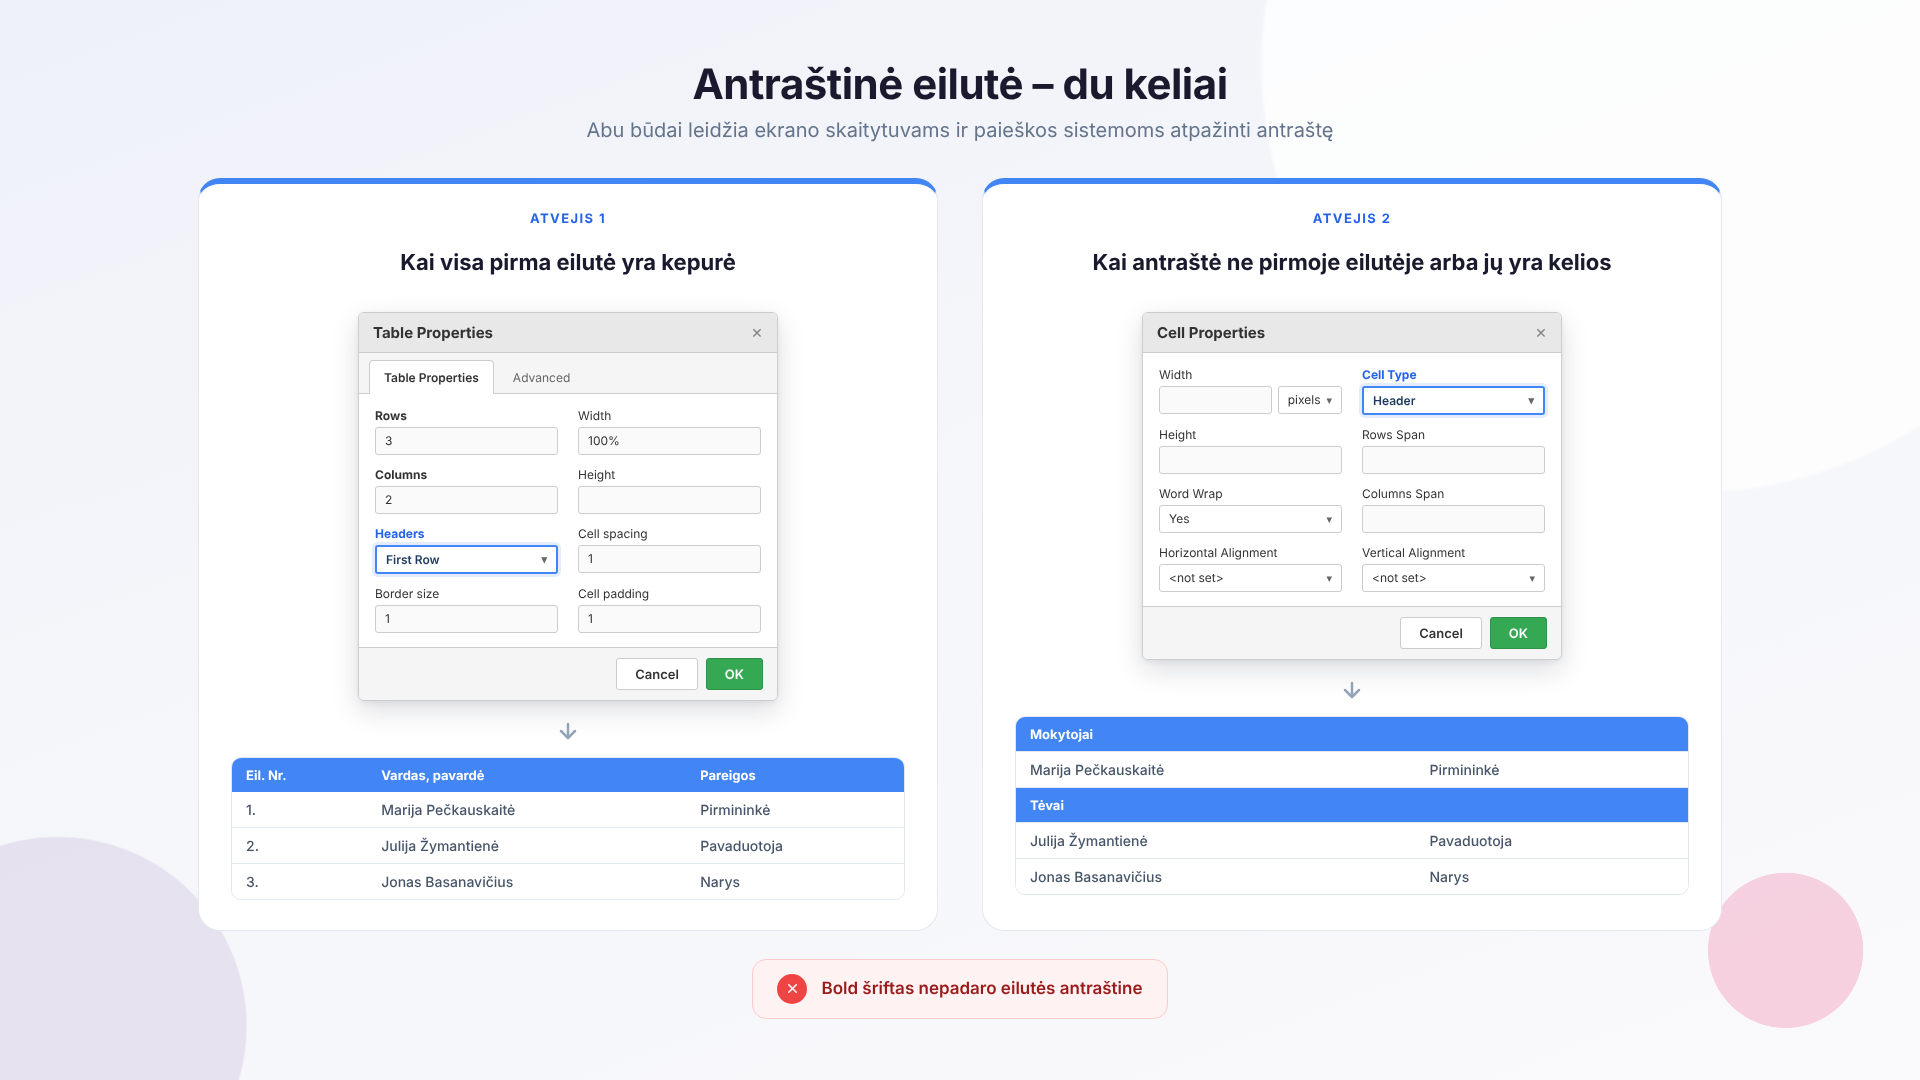
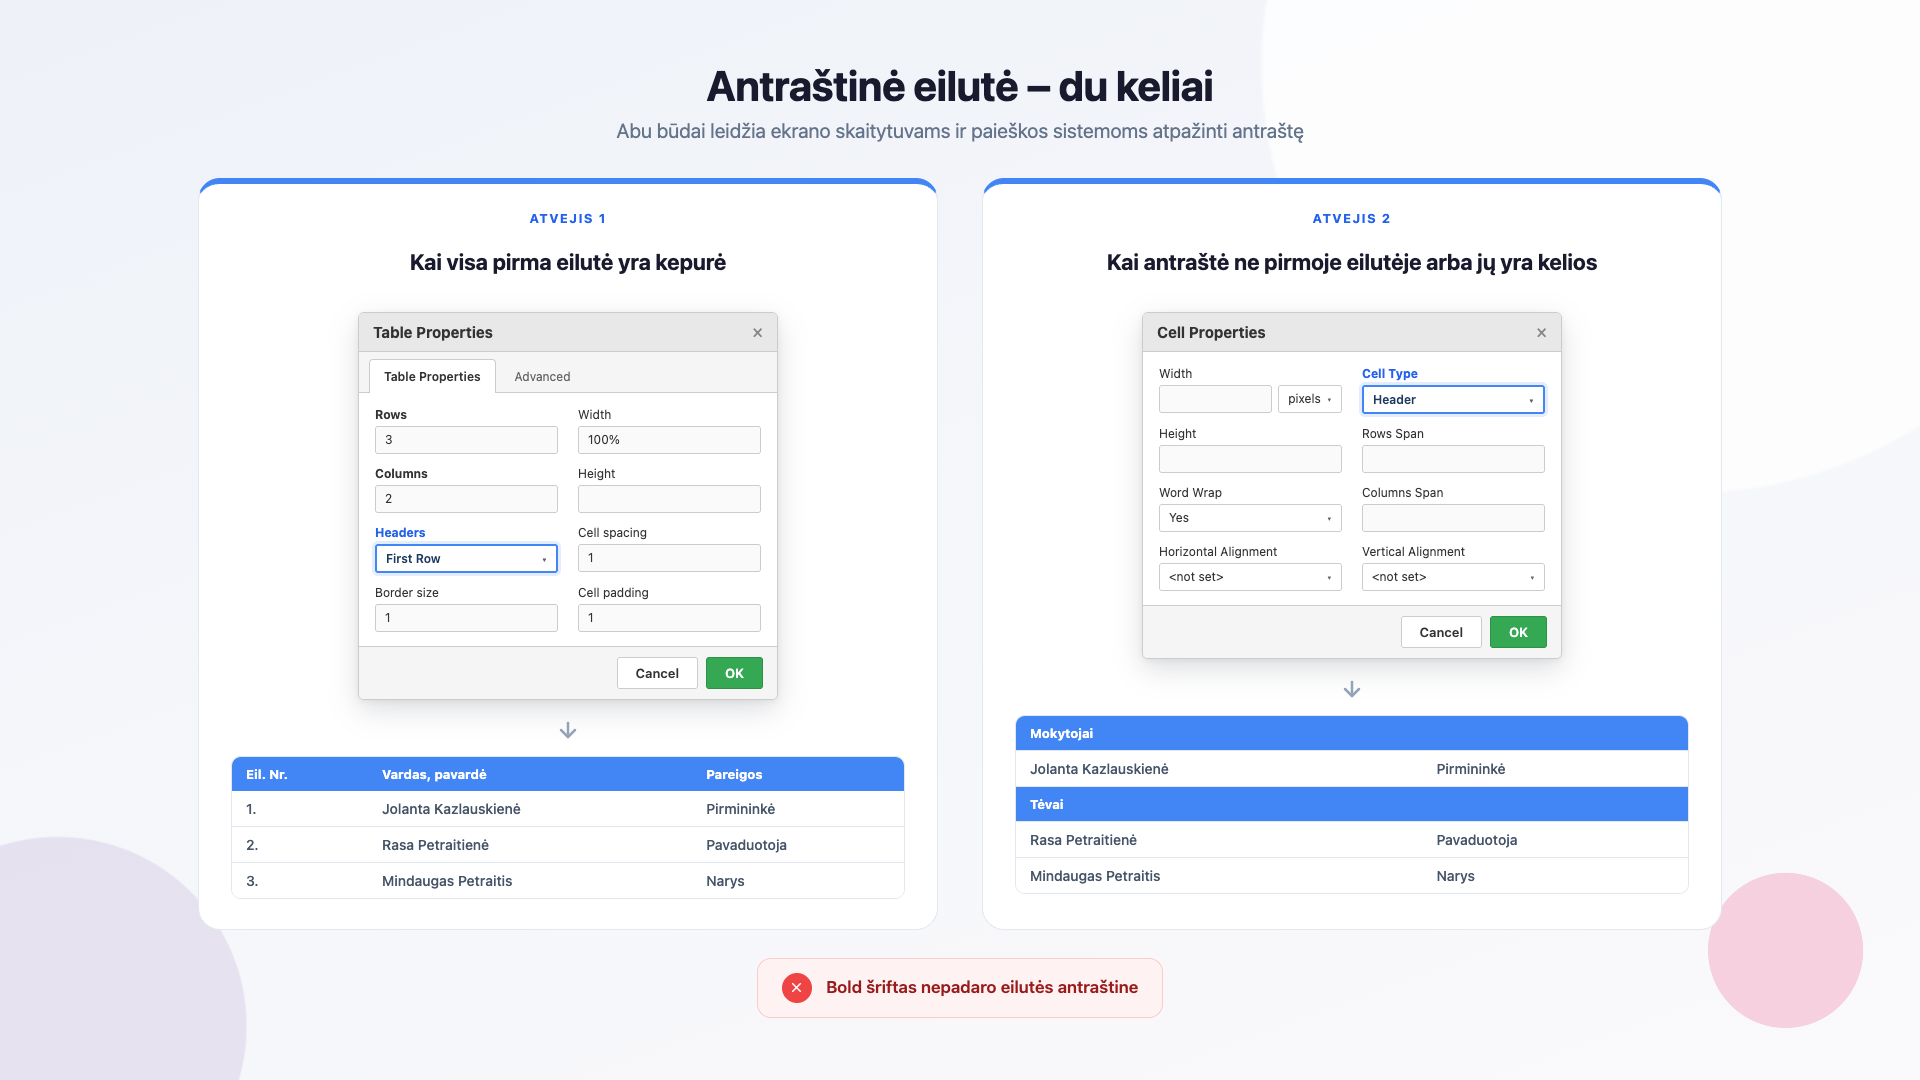
Pavyzdiniai vardai: Google Sheets integracija ir Lentelių kūrimo principai — garsūs mirę lietuviai; PNG perpiešti Mac'e
Turinys (lt.json) ir HTML pataisyti. PNG grąžinti į ankstesnius (taip pat ir „Lentelių redagavimo“):
debesyje Inter šriftas platesnis ir laužo eilutes, todėl PNG piešiami Mac'e:
  node generate.js --png --dark --lang lt --lesson lenteliu-redagavimas-wysiwyg-redaktoriuje,google-sheets-integracija,lenteliu-kurimo-principai

Claude-Session: https://claude.ai/code/session_01AH8p7j7Kzd8xAewVFyPHaZ

diff --git a/lessons/google-sheets-integracija/output/lt/08-duomenu-atsinaujinimas.html b/lessons/google-sheets-integracija/output/lt/08-duomenu-atsinaujinimas.html
@@ -264,12 +264,12 @@
           </div>
           <div class="ss-row">
             <div class="ss-cell">1.</div>
-            <div class="ss-cell">Jolanta Kazlauskienė</div>
+            <div class="ss-cell">Marija Pečkauskaitė</div>
             <div class="ss-cell">Mokytojų atstovė</div>
           </div>
           <div class="ss-row">
             <div class="ss-cell">2.</div>
-            <div class="ss-cell active-cell">Rasa Petrait<span class="cursor"></span></div>
+            <div class="ss-cell active-cell">Julija Žymant<span class="cursor"></span></div>
             <div class="ss-cell">Tėvų atstovė</div>
           </div>
         </div>
@@ -310,12 +310,12 @@
           </div>
           <div class="ss-row">
             <div class="ss-cell">1.</div>
-            <div class="ss-cell">Jolanta Kazlauskienė</div>
+            <div class="ss-cell">Marija Pečkauskaitė</div>
             <div class="ss-cell">Mokytojų atstovė</div>
           </div>
           <div class="ss-row">
             <div class="ss-cell">2.</div>
-            <div class="ss-cell changed-cell">Rasa Petraitienė</div>
+            <div class="ss-cell changed-cell">Julija Žymantienė</div>
             <div class="ss-cell">Tėvų atstovė</div>
           </div>
         </div>

diff --git a/lessons/lenteliu-kurimo-principai/output/lt/04-spalvota-kepure.html b/lessons/lenteliu-kurimo-principai/output/lt/04-spalvota-kepure.html
@@ -194,9 +194,9 @@
               </tr>
             </thead>
             <tbody>
-              <tr><td>1.</td><td>Jolanta Kazlauskienė</td><td>Pirmininkė</td></tr>
-              <tr><td>2.</td><td>Rasa Petraitienė</td><td>Pavaduotoja</td></tr>
-              <tr><td>3.</td><td>Mindaugas Petraitis</td><td>Narys</td></tr>
+              <tr><td>1.</td><td>Marija Pečkauskaitė</td><td>Pirmininkė</td></tr>
+              <tr><td>2.</td><td>Julija Žymantienė</td><td>Pavaduotoja</td></tr>
+              <tr><td>3.</td><td>Jonas Basanavičius</td><td>Narys</td></tr>
             </tbody>
           </table>
         </div>
@@ -218,9 +218,9 @@
               </tr>
             </thead>
             <tbody>
-              <tr><td>1.</td><td>Jolanta Kazlauskienė</td><td>Pirmininkė</td></tr>
-              <tr><td>2.</td><td>Rasa Petraitienė</td><td>Pavaduotoja</td></tr>
-              <tr><td>3.</td><td>Mindaugas Petraitis</td><td>Narys</td></tr>
+              <tr><td>1.</td><td>Marija Pečkauskaitė</td><td>Pirmininkė</td></tr>
+              <tr><td>2.</td><td>Julija Žymantienė</td><td>Pavaduotoja</td></tr>
+              <tr><td>3.</td><td>Jonas Basanavičius</td><td>Narys</td></tr>
             </tbody>
           </table>
         </div>

diff --git a/lessons/lenteliu-kurimo-principai/output/lt/03-paprastumas.html b/lessons/lenteliu-kurimo-principai/output/lt/03-paprastumas.html
@@ -201,9 +201,9 @@
               </tr>
             </thead>
             <tbody>
-              <tr><td>Jolanta Kazlauskienė</td><td>Pirmininkė</td></tr>
-              <tr><td>Rasa Petraitienė</td><td>Pavaduotoja</td></tr>
-              <tr><td>Mindaugas Petraitis</td><td>Narys</td></tr>
+              <tr><td>Marija Pečkauskaitė</td><td>Pirmininkė</td></tr>
+              <tr><td>Julija Žymantienė</td><td>Pavaduotoja</td></tr>
+              <tr><td>Jonas Basanavičius</td><td>Narys</td></tr>
             </tbody>
           </table>
         </div>
@@ -237,16 +237,16 @@
             <tbody>
               <tr>
                 <td class="group-cell" rowspan="2">Mokytojai</td>
-                <td>Jolanta Kazlauskienė</td>
+                <td>Marija Pečkauskaitė</td>
                 <td>Pirmininkė</td>
               </tr>
               <tr>
-                <td>Rasa Petraitienė</td>
+                <td>Julija Žymantienė</td>
                 <td>Pavaduotoja</td>
               </tr>
               <tr>
                 <td class="group-cell">Tėvai</td>
-                <td>Mindaugas Petraitis</td>
+                <td>Jonas Basanavičius</td>
                 <td>Narys</td>
               </tr>
             </tbody>

diff --git a/lessons/lenteliu-kurimo-principai/output/lt/01-lygiavimas-kaire.html b/lessons/lenteliu-kurimo-principai/output/lt/01-lygiavimas-kaire.html
@@ -181,9 +181,9 @@
               </tr>
             </thead>
             <tbody>
-              <tr><td>Jolanta Kazlauskienė</td><td>Mokytojų atstovė</td></tr>
-              <tr><td>Rasa Petraitienė</td><td>Tėvų atstovė</td></tr>
-              <tr><td>Mindaugas Petraitis</td><td>Tėvų atstovas</td></tr>
+              <tr><td>Marija Pečkauskaitė</td><td>Mokytojų atstovė</td></tr>
+              <tr><td>Julija Žymantienė</td><td>Tėvų atstovė</td></tr>
+              <tr><td>Jonas Basanavičius</td><td>Tėvų atstovas</td></tr>
             </tbody>
           </table>
         </div>
@@ -218,9 +218,9 @@
               </tr>
             </thead>
             <tbody>
-              <tr><td>Jolanta Kazlauskienė</td><td>Mokytojų atstovė</td></tr>
-              <tr><td>Rasa Petraitienė</td><td>Tėvų atstovė</td></tr>
-              <tr><td>Mindaugas Petraitis</td><td>Tėvų atstovas</td></tr>
+              <tr><td>Marija Pečkauskaitė</td><td>Mokytojų atstovė</td></tr>
+              <tr><td>Julija Žymantienė</td><td>Tėvų atstovė</td></tr>
+              <tr><td>Jonas Basanavičius</td><td>Tėvų atstovas</td></tr>
             </tbody>
           </table>
         </div>

diff --git a/lessons/lenteliu-kurimo-principai/output/lt/02-nestilizuokite-lenteliu.html b/lessons/lenteliu-kurimo-principai/output/lt/02-nestilizuokite-lenteliu.html
@@ -251,9 +251,9 @@
               </tr>
             </thead>
             <tbody>
-              <tr><td>Jolanta Kazlauskienė</td><td>Mokytojų atstovė</td></tr>
-              <tr><td>Rasa Petraitienė</td><td>Tėvų atstovė</td></tr>
-              <tr><td>Mindaugas Petraitis</td><td>Tėvų atstovas</td></tr>
+              <tr><td>Marija Pečkauskaitė</td><td>Mokytojų atstovė</td></tr>
+              <tr><td>Julija Žymantienė</td><td>Tėvų atstovė</td></tr>
+              <tr><td>Jonas Basanavičius</td><td>Tėvų atstovas</td></tr>
             </tbody>
           </table>
         </div>
@@ -280,9 +280,9 @@
               </tr>
             </thead>
             <tbody>
-              <tr><td>Jolanta Kazlauskienė</td><td>Mokytojų atstovė</td></tr>
-              <tr><td>Rasa Petraitienė</td><td>Tėvų atstovė</td></tr>
-              <tr><td>Mindaugas Petraitis</td><td>Tėvų atstovas</td></tr>
+              <tr><td>Marija Pečkauskaitė</td><td>Mokytojų atstovė</td></tr>
+              <tr><td>Julija Žymantienė</td><td>Tėvų atstovė</td></tr>
+              <tr><td>Jonas Basanavičius</td><td>Tėvų atstovas</td></tr>
             </tbody>
           </table>
         </div>

diff --git a/lessons/lenteliu-kurimo-principai/output/lt/05-rezultatas-svetaineje.html b/lessons/lenteliu-kurimo-principai/output/lt/05-rezultatas-svetaineje.html
@@ -190,9 +190,9 @@
               </tr>
             </thead>
             <tbody>
-              <tr><td>1.</td><td>Jolanta Kazlauskienė</td><td>Pirmininkė</td></tr>
-              <tr><td>2.</td><td>Rasa Petraitienė</td><td>Pavaduotoja</td></tr>
-              <tr><td>3.</td><td>Mindaugas Petraitis</td><td>Narys</td></tr>
+              <tr><td>1.</td><td>Marija Pečkauskaitė</td><td>Pirmininkė</td></tr>
+              <tr><td>2.</td><td>Julija Žymantienė</td><td>Pavaduotoja</td></tr>
+              <tr><td>3.</td><td>Jonas Basanavičius</td><td>Narys</td></tr>
             </tbody>
           </table>
         </div>

diff --git a/lessons/google-sheets-integracija/output/lt/07-kodo-iterpimas-rezultatas.html b/lessons/google-sheets-integracija/output/lt/07-kodo-iterpimas-rezultatas.html
@@ -281,12 +281,12 @@
             <tbody>
               <tr>
                 <td>1.</td>
-                <td>Jolanta Kazlauskienė</td>
+                <td>Marija Pečkauskaitė</td>
                 <td>Mokytojų atstovė</td>
               </tr>
               <tr>
                 <td>2.</td>
-                <td>Rasa Petraitienė</td>
+                <td>Julija Žymantienė</td>
                 <td>Tėvų atstovė</td>
               </tr>
             </tbody>
